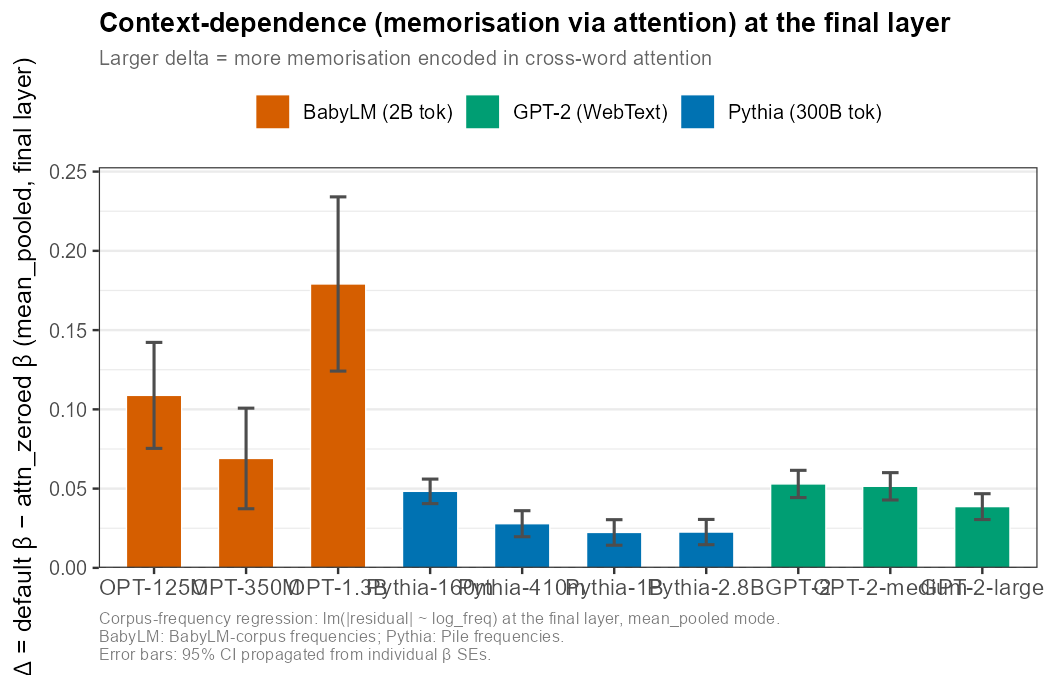
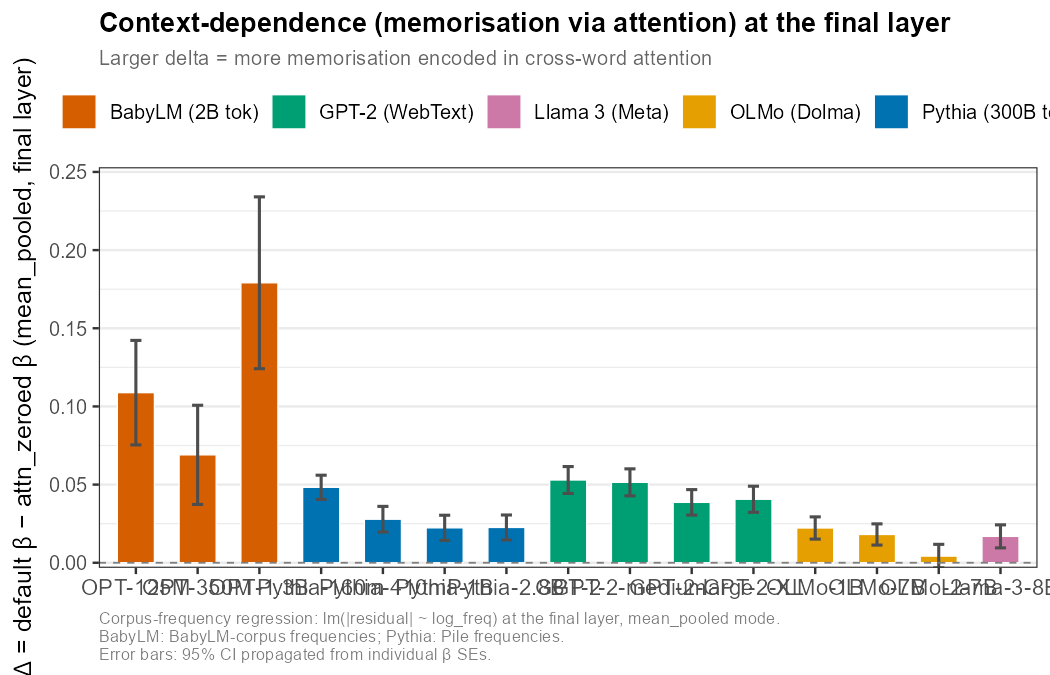
Add Phase 3 cross-family models to frequency regression and delta plot
Extend corpus_freq_regression_pythia.R and plot_delta_by_model.R to cover
GPT-2-XL, OLMo-1B, OLMo-7B, OLMo-2-7B, and Llama-3-8B. All new models
use Pile frequencies as proxy. Update pilot_results_2.md with full
cross-family r² table, frequency regression βs, and analysis of novel-word
generalization, attention effects, and memorization vs. abstraction trends.

Changed region(s): [[0.0305, 0.28, 1.0, 0.9022], [0.061, 0.1244, 1.0, 0.2178], [0.0305, 0.4667, 0.0914, 0.4978]]

diff --git a/pilot_results_2.md b/pilot_results_2.md
@@ -1814,59 +1814,141 @@ The context-dependence effect (Δ) is non-monotonic with scale: 350M has the sma
 
 ---
 
-## Section 9: Phase 3 — Pythia (Preliminary)
+## Section 9: Phase 3 — Cross-Family Comparison
 
 ### Setup
 
-Phase 3 models (Pythia, GPT-2, OLMo, Llama 3) are run using `Scripts/run_new_models.py`, which extracts **final-layer embeddings only** (no by-layer sweep) for each model's single pretrained checkpoint. This is intentional: Phase 3 is a cross-family comparison at the final representation, not a training-dynamics study. Results use the same four condition × mode × split combinations as Phase 1/2, but at a single layer per model. Pythia models are trained on The Pile (~300B tokens, ~3000× more than the BabyLM budget).
+Phase 3 models are run using `Scripts/run_new_models.py`, which extracts **final-layer embeddings only** (no by-layer sweep) for each model's single pretrained checkpoint. This is intentional: Phase 3 is a cross-family comparison at the final representation, not a training-dynamics study. Results use the same four condition × mode × split combinations as Phase 1/2, but at a single layer per model. Frequency measure for all Phase 3 models: `Results/corpus_binomials_infinigram_piletrain.csv` (Pile infinigram counts). Full regression results: `Results/corpus_freq_regression_pythia.csv`.
 
-**Results currently available:** Pythia-160m and Pythia-410m. Larger Pythia models (1B, 2.8B) and GPT-2/OLMo/Llama 3 are pending.
+**Note on position embeddings:** The attn_zeroed condition has different semantics across architectures. For RoPE models (Pythia, OLMo, Llama 3), zeroing cross-word attention also removes relative position information between words — representations are genuinely position-free with respect to co-occurrence context. For GPT-2 (absolute position embeddings added at layer 0), absolute position is baked into every token's representation regardless of attention masking, so attn_zeroed representations still encode absolute token position. This means GPT-2's attn_zeroed condition is not directly comparable to Pythia/OLMo/Llama, and its results should be interpreted accordingly.
 
-### r² at final layer
+**Missing models:** OLMo-2-1124-1B and Llama-3.2-1B did not complete successfully (empty result files); they are excluded.
 
-| Model | Layer | def/mp/pn | def/wo/pn | az/mp/pn | az/wo/pn | az/wo/wn |
-|---|---|---|---|---|---|---|
-| Pythia-160m | L12 | .587 | .570 | .604 | .605 | .535 |
-| Pythia-410m | L24 | .532 | .514 | .552 | .564 | .504 |
+---
 
-### Key observation: attn_zeroed > default throughout
+### r² at final layer — all Phase 3 models
 
-For every Pythia model and every condition, attn_zeroed r² exceeds default r². This is the **opposite** of the OPT-BabyLM pattern at their final checkpoints: all three BabyLM models show default > attn_zeroed for the mean_pooled/pair_novel comparison. The reversal means that for Pythia, zeroing cross-word self-attention consistently improves probe performance — the abstract signal is cleaner without the cross-word attention pathway.
+| Model | Layer | def/mp/pn | def/wo/pn | az/mp/pn | az/wo/pn | def/mp/wn | def/wo/wn | az/mp/wn | az/wo/wn |
+|---|---|---|---|---|---|---|---|---|---|
+| Pythia-160m  | L12 | .588 | .570 | .604 | .605 | .497 | .456 | .510 | .535 |
+| Pythia-410m  | L24 | .532 | .514 | .552 | .564 | .462 | .434 | .480 | .504 |
+| Pythia-1B    | L16 | .554 | .523 | .567 | .568 | .488 | .454 | .496 | .495 |
+| Pythia-2.8B  | L32 | .542 | .503 | .563 | .563 | .485 | .443 | .491 | .502 |
+| GPT-2        | L12 | .648 | .618 | .786 | .422 | .601 | .574 | .718 | .281 |
+| GPT-2-medium | L24 | .533 | .521 | .756 | .507 | .453 | .448 | .670 | .346 |
+| GPT-2-large  | L36 | .519 | .487 | .668 | .498 | .449 | .425 | .571 | .346 |
+| GPT-2-XL     | L48 | .487 | .458 | .726 | .534 | .420 | .391 | .641 | .377 |
+| OLMo-1B      | L16 | .575 | .537 | .597 | .604 | .505 | .471 | .514 | .522 |
+| OLMo-7B      | L32 | .621 | .566 | .658 | .653 | .561 | .503 | .580 | .582 |
+| OLMo-2-7B    | L32 | .614 | .549 | .642 | .615 | .554 | .478 | .570 | .545 |
+| Llama-3-8B   | L32 | .545 | .448 | .521 | .514 | .510 | .402 | .470 | .454 |
 
-This contrast is consistent with training data quantity. BabyLM models (2B tokens) have sufficient exposure to memorize specific pair orderings; cross-word attention carries memorized, pair-specific representations that interfere with abstract generalization. Pythia models (≥300B tokens) have seen enough diverse contexts that their contextual representations are dominated by abstract ordering patterns, and cross-word attention primarily adds co-occurrence statistics that are redundant with or slightly noise relative to the abstract signal. Note that this interpretation is preliminary — without the full by-layer sweep, we cannot rule out that the effect is specific to the final layer.
+---
 
-### Absolute r² substantially higher
+### 1. Generalization to novel words
 
-Pythia-160m achieves .587 (default/mp/pn) and .535 (attn_zeroed/wo/wn) at a single final layer. OPT-125M final model (with full layer sweep) peaks at .385 and .242 respectively. The increase is partly attributable to training data volume (~150× more), partly to architecture differences, and partly to the fact that we're comparing at the single best-available layer rather than the true peak layer (which may differ for Pythia).
+The word_novel split (both test words unseen during probe training) is the strictest test of abstract generalization. All Phase 3 models substantially exceed BabyLM models on this measure:
 
-The words_only/word_novel r² for Pythia (.504–.535) is particularly striking: BabyLM models peak at .242 (125M) to .258 (350M) in this strictest generalization condition. The 2× improvement likely reflects Pythia having encountered the same words in many more distinct ordering contexts, sharpening the word-level ordering signal far beyond what 2B tokens can provide.
+- BabyLM peak az/mp/wn: .191 (OPT-350M, layer 22)
+- Pythia range az/mp/wn: .491–.510 — roughly 2.5–2.7× the BabyLM peak
+- OLMo range az/mp/wn: .514–.580
+- Llama-3-8B az/mp/wn: .470
+- GPT-2 az/mp/wn: .641–.718 (elevated by position embedding; see note above)
 
-### Corpus-frequency regression (final layer only; Pile frequencies)
+The improvements are consistent across modes: even the strictest condition (attn_zeroed / words_only / word_novel) reaches .495–.582 for Pythia and OLMo, compared to BabyLM peaks near .215. The ordering signal in fully-trained large models has been abstracted to individual word representations at a level that far exceeds what 2B tokens can support.
 
-Frequency measure: `Results/corpus_binomials_infinigram_piletrain.csv` (infinigram counts on The Pile training data). Full results: `Results/corpus_freq_regression_pythia.csv`.
+Within the RoPE family, OLMo-7B and OLMo-2-7B show the highest word_novel r² in all conditions (.545–.582 for az/wo/wn), slightly outperforming Pythia and Llama-3-8B. Pythia-160m (the smallest Pythia model) has the highest Pythia word_novel r² (.535 az/wo/wn), which slightly declines with scale in the Pythia family — this is consistent with larger models distributing the signal across more capacity, not with worse generalization per se.
 
-| Model | def/mp β | def/wo β | az/mp β | az/wo β |
+---
+
+### 2. Attention effects: what happens when cross-word attention is zeroed?
+
+**All Phase 3 models except Llama-3-8B show az > def for pair_novel mean_pooled.** This is the opposite of the BabyLM pattern (where default > attn_zeroed at final checkpoints). For large-data models, zeroing cross-word attention improves probe performance — cross-word attention adds pair-specific co-occurrence noise that slightly degrades the abstract signal.
+
+**Llama-3-8B is the sole exception:** def/mp/pn = .545 > az/mp/pn = .521. Cross-word attention helps Llama-3-8B, not hurts it. Llama-3-8B is also the only model where def/mp/wn (.510) substantially exceeds az/mp/wn (.470). The mechanism is unclear — Llama-3's grouped-query attention (GQA) and the exceptionally large and diverse training corpus (~15T tokens) may have produced an attention pathway that encodes more abstract (rather than pair-specific) ordering information.
+
+**GPT-2's attn_zeroed spike is a position embedding artifact.** GPT-2's az/mp/pn values (.726–.786) are by far the highest in the dataset, but the az/mp vs az/wo gap is uniquely extreme:
+- GPT-2: az/mp/pn = .786 vs az/wo/pn = .422 — gap of .364
+- GPT-2-medium: .756 vs .507 — gap of .249
+- GPT-2-large: .668 vs .498 — gap of .170
+- GPT-2-XL: .726 vs .534 — gap of .192
+
+No RoPE model shows a gap above .050. The mean_pooled condition includes the "and" token, which sits at a maximally informative absolute position (between w1 and w2, at a different sequence offset depending on ordering). With cross-word attention zeroed but absolute positions intact, mean-pooling over w1+and+w2 produces a vector that reliably encodes which word appeared first purely via position, inflating r². This is not lexical abstraction. The words_only condition (which excludes "and") is more interpretable for GPT-2; even there, some position signal remains because w1 appears earlier in the sequence than w2.
+
+For RoPE models, where attn_zeroed is genuinely position-free, the az/mp vs az/wo gap is small:
+- Pythia-160m: .604 vs .605 — gap ≈ .001
+- OLMo-7B: .658 vs .653 — gap ≈ .005
+- Llama-3-8B: .521 vs .514 — gap ≈ .007
+
+This confirms that for RoPE models the mean_pooled and words_only conditions carry essentially the same information in the attn_zeroed setting.
+
+---
+
+### 3. Memorization vs. abstraction: corpus-frequency regression
+
+All Phase 3 models show **negative β in all conditions** — a fundamental departure from BabyLM, where default/mean_pooled is positive. Higher-frequency pairs are predicted more accurately by a novel-trained probe in every Phase 3 model, in both default and attn_zeroed conditions. This is the hallmark of abstraction: the model's representations reflect the underlying ordering tendency more reliably for frequent items, rather than encoding idiosyncratic memorized sequences.
+
+| Model | def/mp β | def/wo β | az/mp β | az/wo β | Δ (def−az mp) |
+|---|---|---|---|---|---|
+| Pythia-160m  | −.028*** | −.029*** | −.076*** | −.086*** | .048 |
+| Pythia-410m  | −.034*** | −.032*** | −.062*** | −.081*** | .028 |
+| Pythia-1B    | −.031*** | −.025*** | −.054*** | −.075*** | .022 |
+| Pythia-2.8B  | −.033*** | −.032*** | −.056*** | −.072*** | .023 |
+| GPT-2        | −.016*** | −.015*** | −.069*** | −.082*** | .053 |
+| GPT-2-medium | −.022*** | −.014*** | −.074*** | −.086*** | .051 |
+| GPT-2-large  | −.025*** | −.017*** | −.064*** | −.077*** | .039 |
+| GPT-2-XL     | −.027*** | −.021*** | −.068*** | −.079*** | .041 |
+| OLMo-1B      | −.036*** | −.033*** | −.059*** | −.071*** | .022 |
+| OLMo-7B      | −.035*** | −.032*** | −.053*** | −.068*** | .018 |
+| OLMo-2-7B    | −.055*** | −.050*** | −.059*** | −.074*** | .004 |
+| Llama-3-8B   | −.044*** | −.044*** | −.061*** | −.074*** | .017 |
+
+The delta (default/mp β − attn_zeroed/mp β) is the context-dependence index: how much additional frequency sensitivity comes from cross-word attention. For BabyLM this was dominated by the sign-flip (positive def, negative az → large positive delta). For Phase 3 models the delta is purely about magnitude (both negative, but az more negative), and it's much smaller.
+
+**Cross-family summary:**
+
+| Model family | Training tokens | def/mp β | az/mp β | Δ |
 |---|---|---|---|---|
-| Pythia-160m (L12) | −.028*** | −.029*** | −.076*** | −.086*** |
-| Pythia-410m (L24) | −.034*** | −.032*** | −.062*** | −.081*** |
+| OPT-BabyLM-125M | 2B   | +.054*** | −.063*** | .117 |
+| OPT-BabyLM-350M | 2B   | +.050*** | −.049*** | .099 |
+| OPT-BabyLM-1.3B | 2B   | +.043*** | −.128*** | .171 |
+| Pythia-160m | ~300B       | −.028*** | −.076*** | .048 |
+| Pythia-1B   | ~300B       | −.031*** | −.054*** | .022 |
+| Pythia-2.8B | ~300B       | −.033*** | −.056*** | .023 |
+| OLMo-1B     | ~3T         | −.036*** | −.059*** | .022 |
+| OLMo-7B     | ~2.5T       | −.035*** | −.053*** | .018 |
+| OLMo-2-7B   | ~3T         | −.055*** | −.059*** | .004 |
+| Llama-3-8B  | ~15T        | −.044*** | −.061*** | .017 |
 
-**All four conditions are negative for both Pythia models.** This is the fundamental contrast with OPT-BabyLM, where default/mp is positive (+.039 to +.058 avg across layers) in all three models. For Pythia, even the default condition shows better generalization to high-frequency pairs — the model has learned enough abstract ordering information that cross-word attention does not introduce memorization-driven interference. Zeroing attention still improves performance further (attn_zeroed is 2–3× more negative than default), indicating some pair-specific encoding remains in the attention pathway even for Pythia, but it's no longer large enough to flip the sign.
+Note: BabyLM frequencies are from the BabyLM training corpus; all Phase 3 frequencies are from The Pile. Magnitudes are not directly comparable across families; signs and relative patterns within each family are.
 
-Cross-family comparison at the fully trained final checkpoint. BabyLM β values are averaged across all layers (see Section 4 for per-layer detail); Pythia values are at the final layer only.
+---
 
-| Model family | Training tokens | def/mp β (avg) | az/mp β (avg) | Δ |
-|---|---|---|---|---|
-| OPT-BabyLM-125M | 2B     | +.054***  | −.063*** | .117 |
-| OPT-BabyLM-350M | 2B     | +.050***  | −.049*** | .099 |
-| OPT-BabyLM-1.3B | 2B     | +.043*–** | −.128*** | .171 |
-| Pythia-160m      | ~300B  | −.028***  | −.076*** | .048 |
-| Pythia-410m      | ~300B  | −.034***  | −.062*** | .028 |
+### 4. Trends by training data, parameters, and model family
 
-The dissociation delta (def − az) is substantially smaller for Pythia models, driven by the sign-flip in default/mp: when the model isn't memorizing, both conditions are negative and the gap shrinks. The Pythia Δ values (.028–.048) are comparable to the BabyLM *attn_zeroed* signal alone, without any positive memorization component. Within BabyLM, the 1.3B delta (.171) is larger than the 125M delta (.117), driven primarily by the enormous attn_zeroed β — the fully-trained 1.3B has the strongest abstract signal among BabyLM models, not because it generalizes well (probe transfer r² is the *lowest* in the family at final checkout) but because frequent pairs have accumulated the most divergent word-level representations from undertraining on diverse contexts.
+**Training data volume is the primary driver of the memorization/abstraction divide.** The sharpest discontinuity in the dataset is between BabyLM (2B tokens, positive default/mp β) and all large-data models (≥300B tokens, negative default/mp β). Within Phase 3, all four families trained on hundreds of billions to trillions of tokens behave qualitatively similarly — both conditions negative, small delta.
 
-Note: BabyLM frequencies are computed from the BabyLM training corpus; Pythia frequencies are from The Pile. These are different frequency distributions, so β magnitudes are not directly comparable across families — the direction and sign of β within each family is the relevant quantity.
+**Within-family scale effects:**
 
-### Phase 3 next steps
+- *Pythia:* The delta decreases monotonically from 160m (.048) to 410m (.028) to 1B (.022), then plateaus (2.8B: .023). Larger Pythia models are marginally less context-dependent. The default β is stable (−.028 to −.034) across all four sizes, while attn_zeroed β becomes less negative as parameters increase (.076 → .056), shrinking the gap.
 
-- Await results for Pythia-1B, Pythia-2.8B, GPT-2 family, OLMo, and Llama-3.
-- Consider whether a small number of intermediate layers should be added for the two smallest Pythia models to verify that the final layer is close to the performance peak (see methods note in run_new_models.py).
+- *OLMo:* Delta narrows from 1B (.022) to 7B (.018) to OLMo-2-7B (.004). OLMo-2-7B is the most striking case: default/mp β (−.055) is nearly as negative as attn_zeroed/mp β (−.059), meaning cross-word attention contributes almost nothing to the frequency sensitivity of the representation. OLMo-2-7B was trained with improved data curation and training recipes relative to OLMo-1; this near-zero delta suggests its FFN pathway alone carries essentially the full abstract ordering signal.
+
+- *GPT-2:* The default β grows more negative with scale (−.016 to −.027), and the attn_zeroed β stabilizes (−.064 to −.074). The delta of ~.040–.053 is larger than Pythia or OLMo at comparable scales, but as noted this is confounded by position embeddings.
+
+**Amount of training data vs. number of parameters:**
+
+The clearest within-family contrast is OLMo-1B vs OLMo-7B vs OLMo-2-7B: same dataset family (Dolma), but 7B parameters and improved training produces default/mp β = −.055 (more negative, stronger abstract signal) compared to −.036 for 1B. Llama-3-8B, trained on far more data (~15T tokens), shows default/mp β = −.044 — more negative than any Pythia model but comparable to OLMo-7B. The relationship between scale and abstraction within Phase 3 is consistent but modest: more parameters or more data both push default β more negative, but by small amounts. The big jump comes from crossing the BabyLM/large-data boundary, not from scaling within Phase 3.
+
+**OLMo and Pythia are remarkably convergent** despite different architectures (SwiGLU vs GELU FFNs), different training corpora (Dolma vs Pile), and different training procedures. At 1B parameters: Pythia-1B delta = .022, OLMo-1B delta = .022, both default/mp β ≈ −.031 to −.036, both az/mp β ≈ −.054 to −.059. The convergence at matched parameter counts suggests the abstraction level is primarily determined by training data scale (both ~300B–3T tokens), not architecture.
+
+**Context-dependence delta plot:** `Results/delta_by_model.pdf`
+
+---
+
+### 5. Missing and incomplete models
+
+- **OLMo-2-1124-1B**: extraction completed but MLP probes produced no results (empty CSV). Likely a pipeline issue during probe training. To be re-run.
+- **Llama-3.2-1B**: same — empty MLP results. To be re-run.
+
+These two models are excluded from all Phase 3 analyses above.
